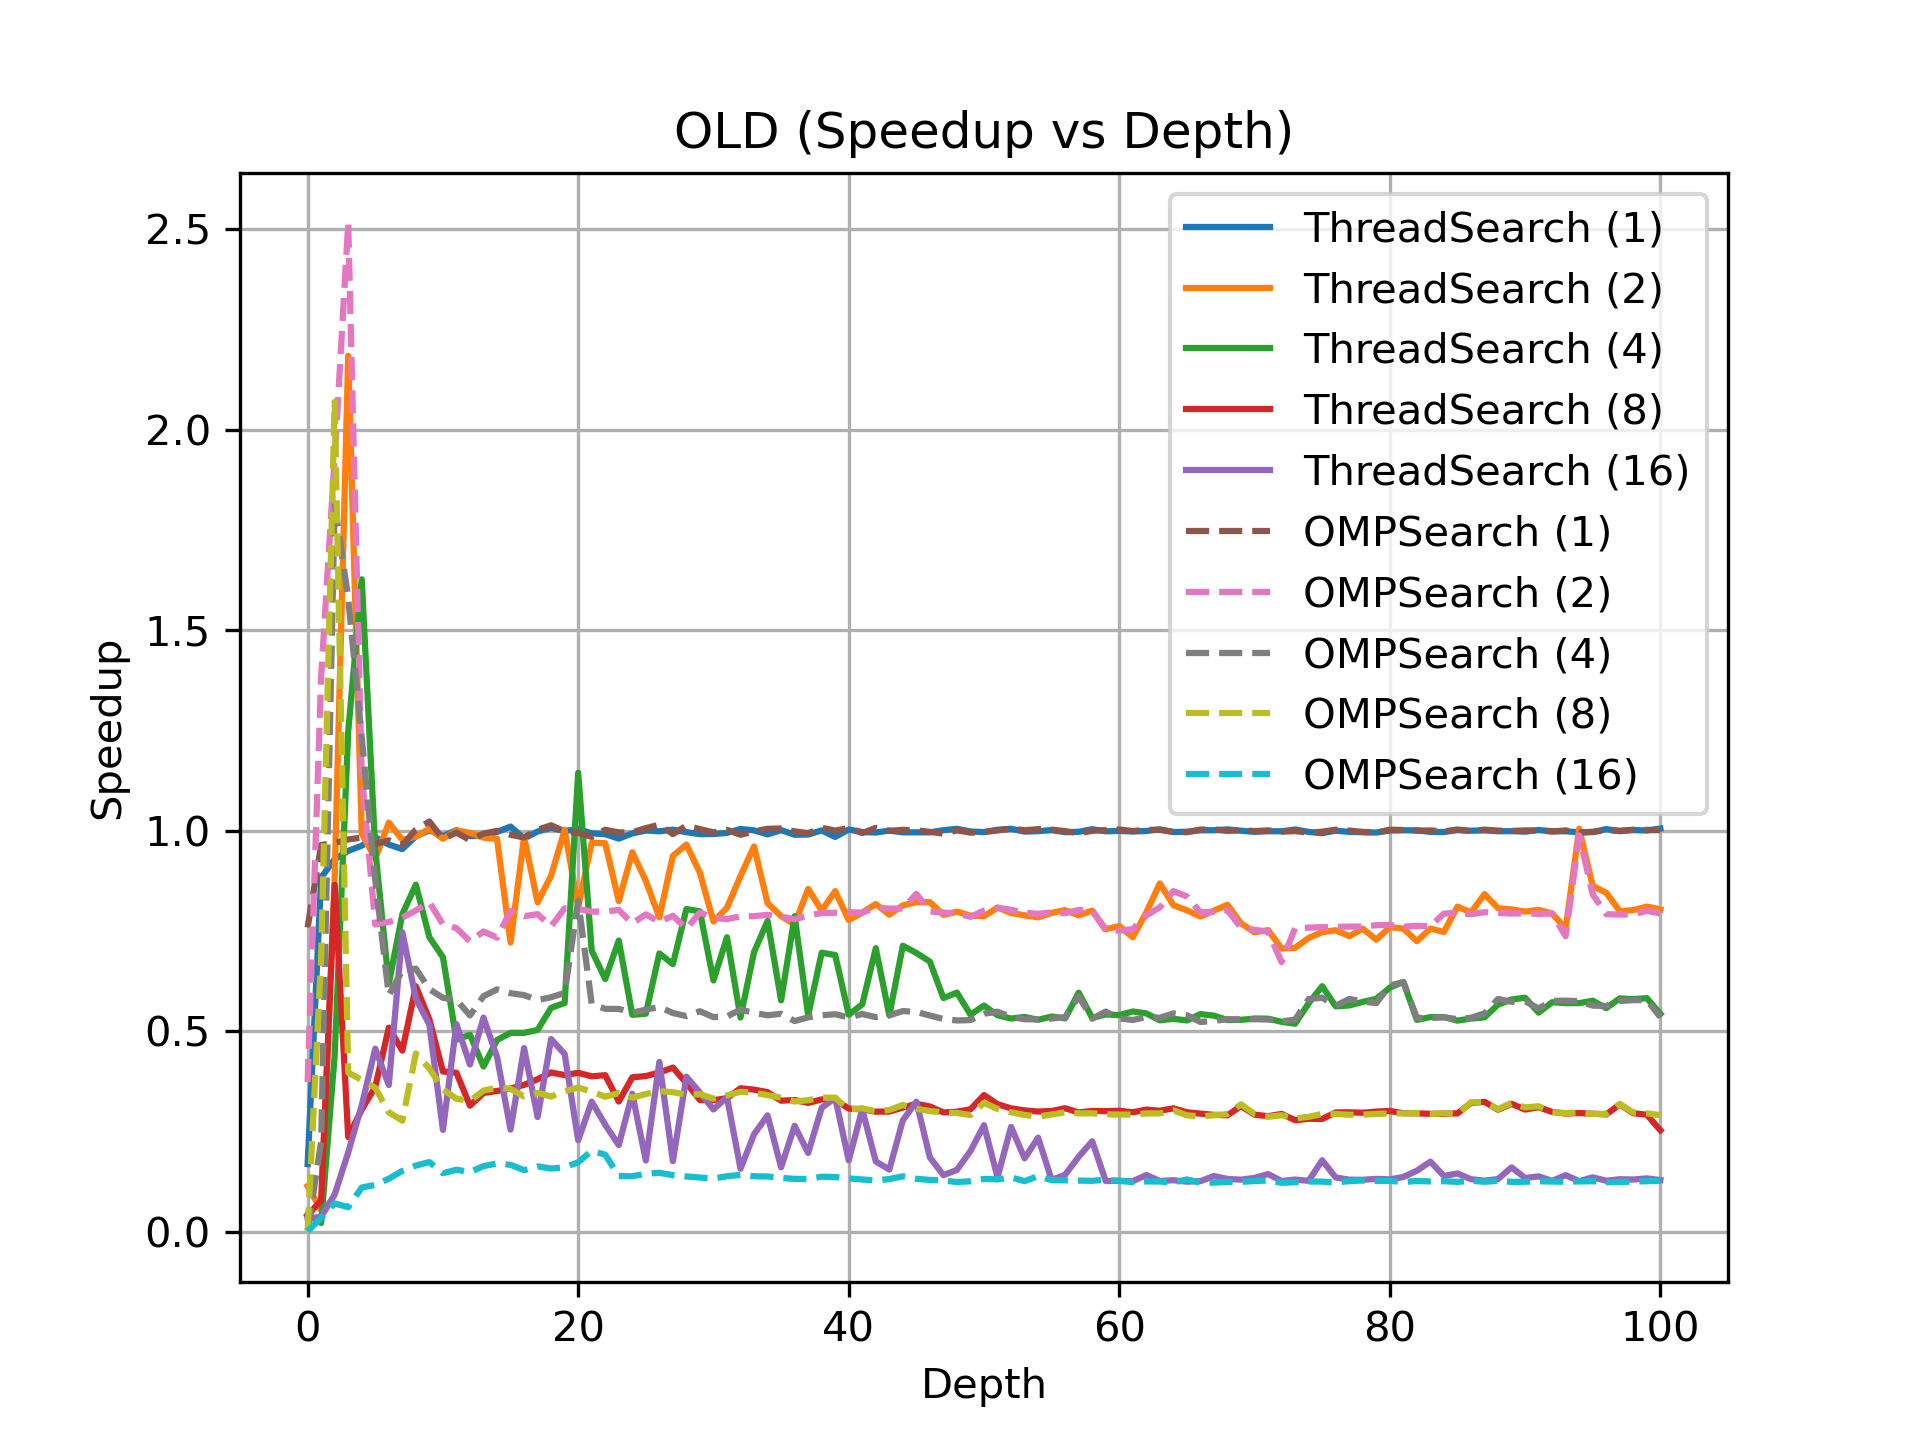
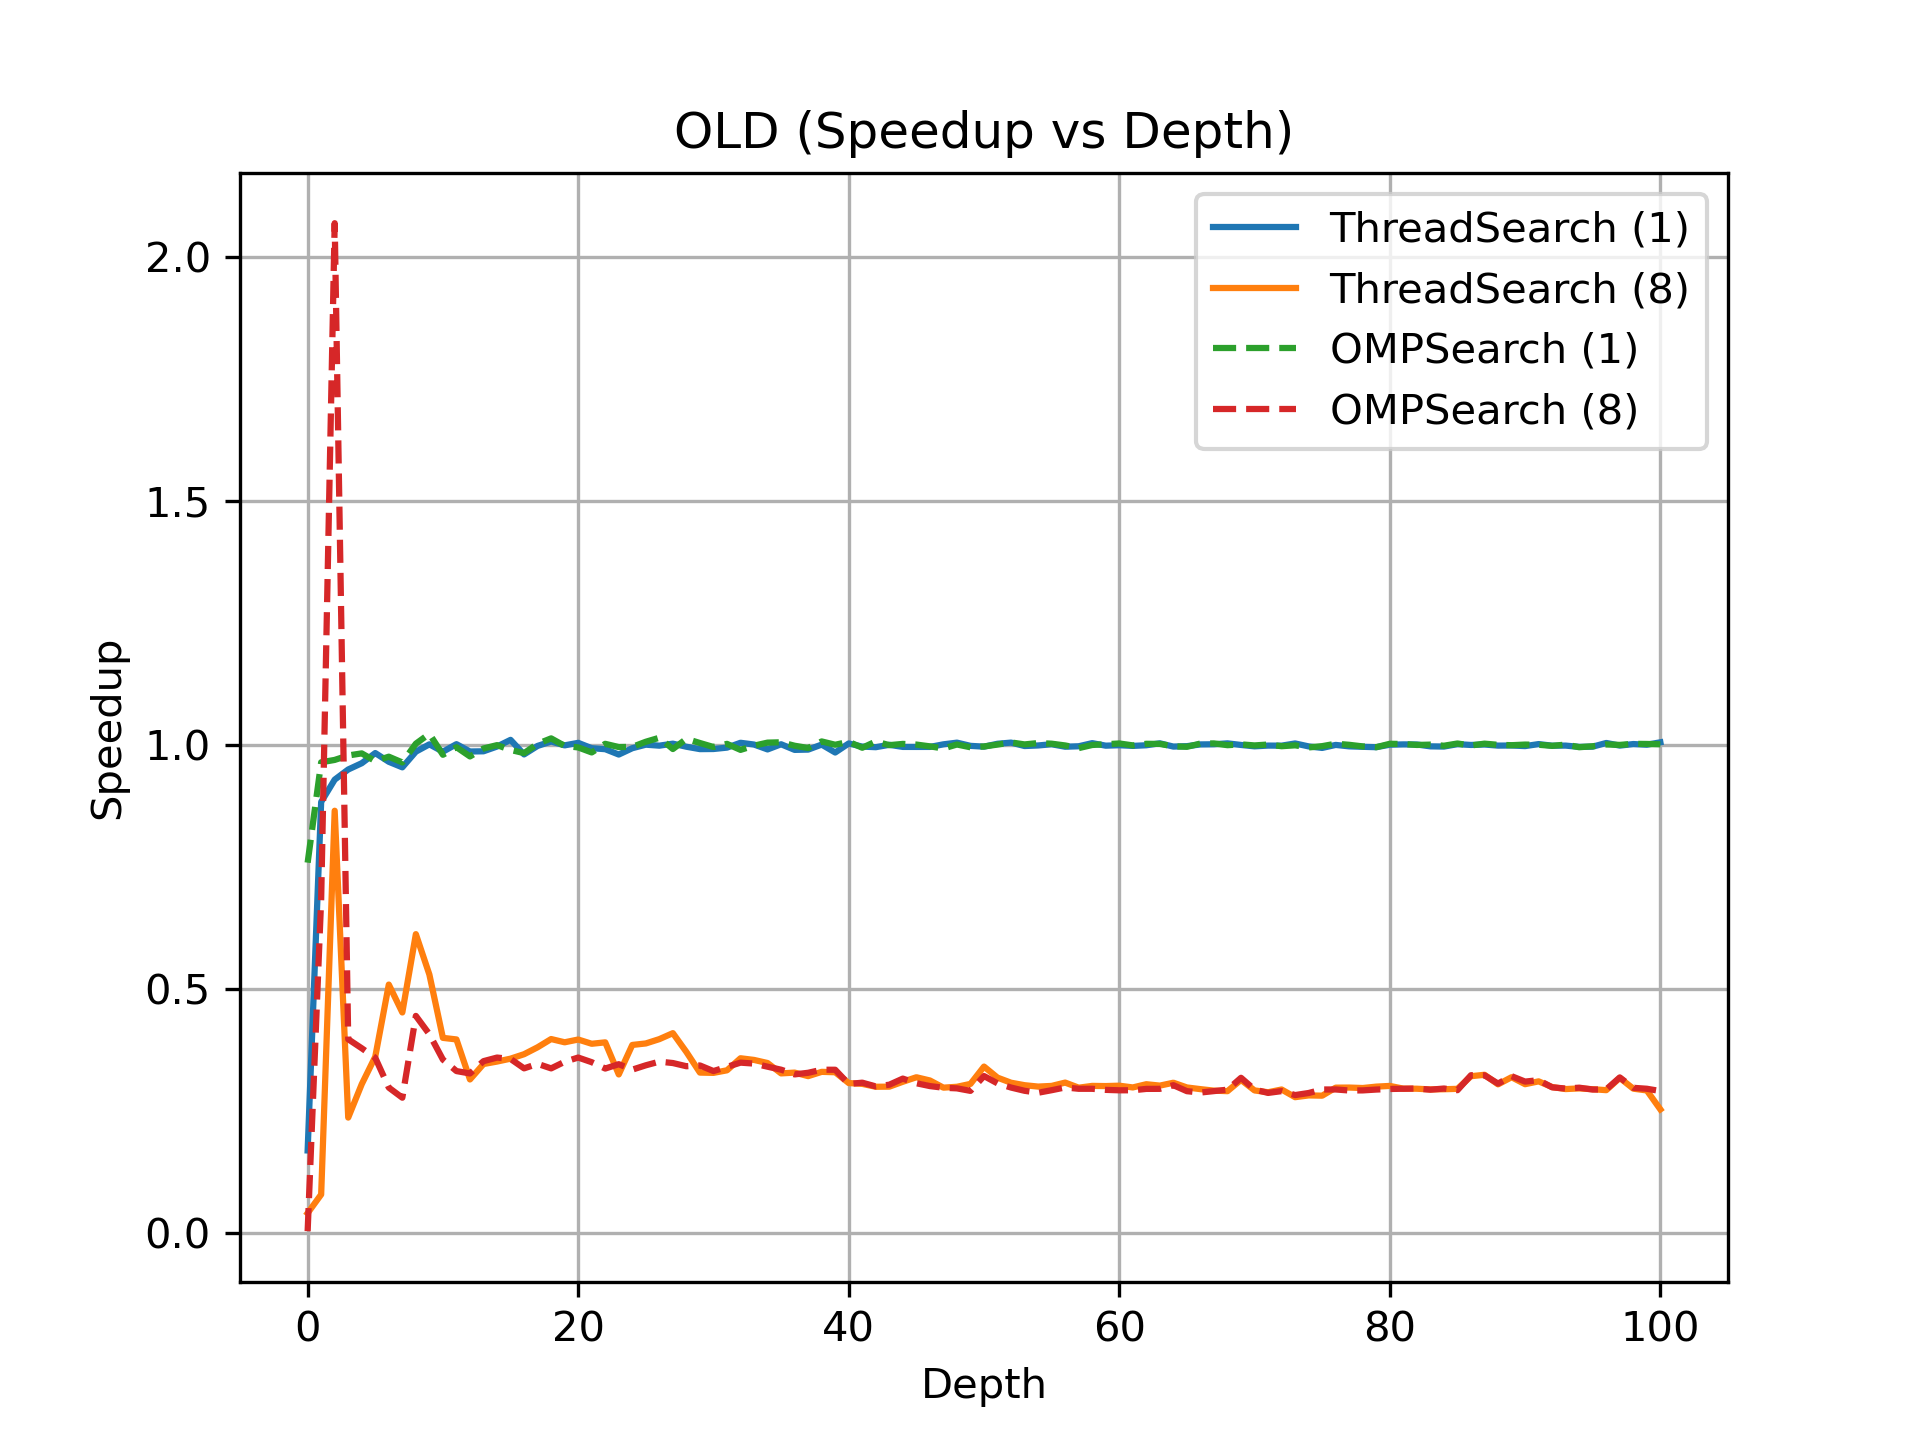
Updated graphing files and images

diff --git a/data/graph_plotting.py b/data/graph_plotting.py
@@ -4,11 +4,7 @@ import matplotlib.pyplot as plt
 # CSV files and corresponding number of CPU cores
 files = {
     "new_results1.csv": 1,
-    "new_results2.csv": 2,
-    "new_results4.csv": 4,
     "new_results8.csv": 8,
-    "new_results16.csv": 16,
-    "new_results32.csv": 32,
 }
 
 depths = {}

diff --git a/data/old_graph_plotting.py b/data/old_graph_plotting.py
@@ -4,10 +4,7 @@ import matplotlib.pyplot as plt
 # CSV files and corresponding number of CPU cores
 files = {
     "timing_results1.csv": 1,
-    "timing_results2.csv": 2,
-    "timing_results4.csv": 4,
     "timing_results8.csv": 8,
-    "timing_results16.csv": 16,
 }
 
 depths = {}
